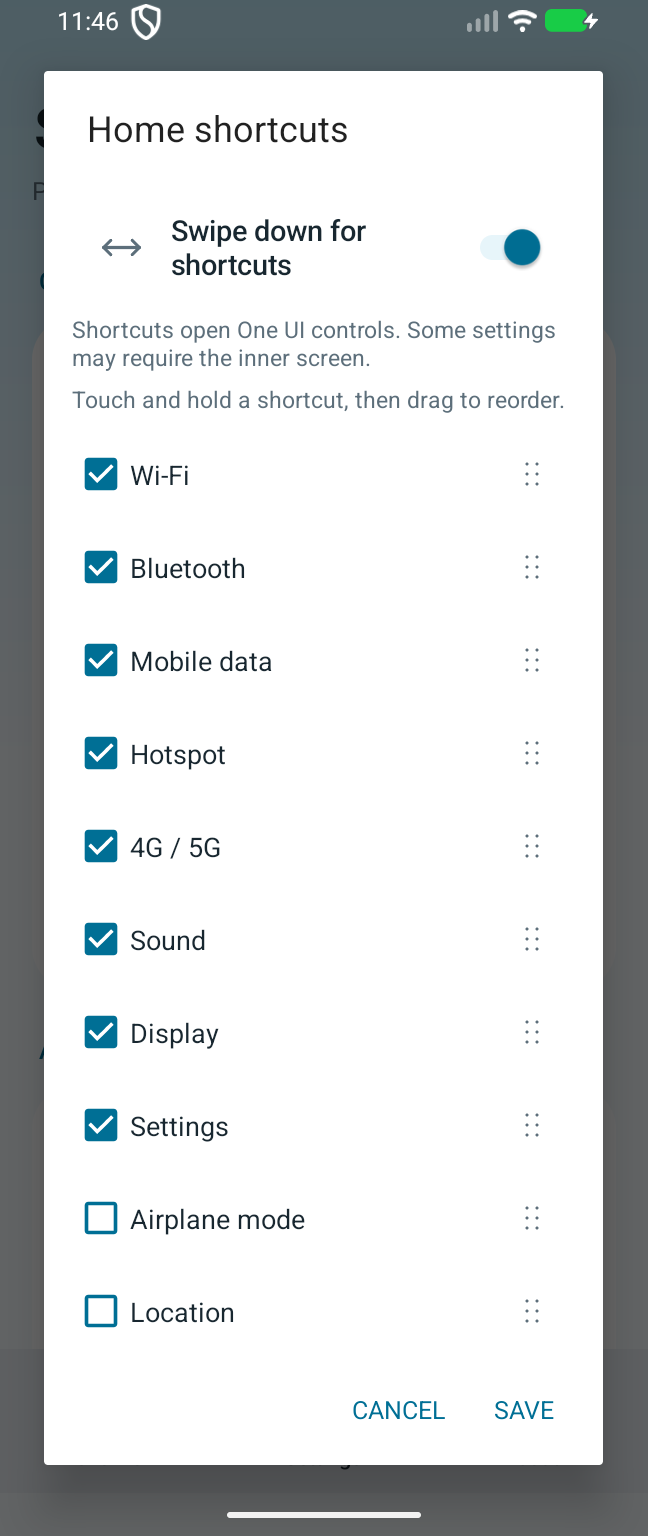
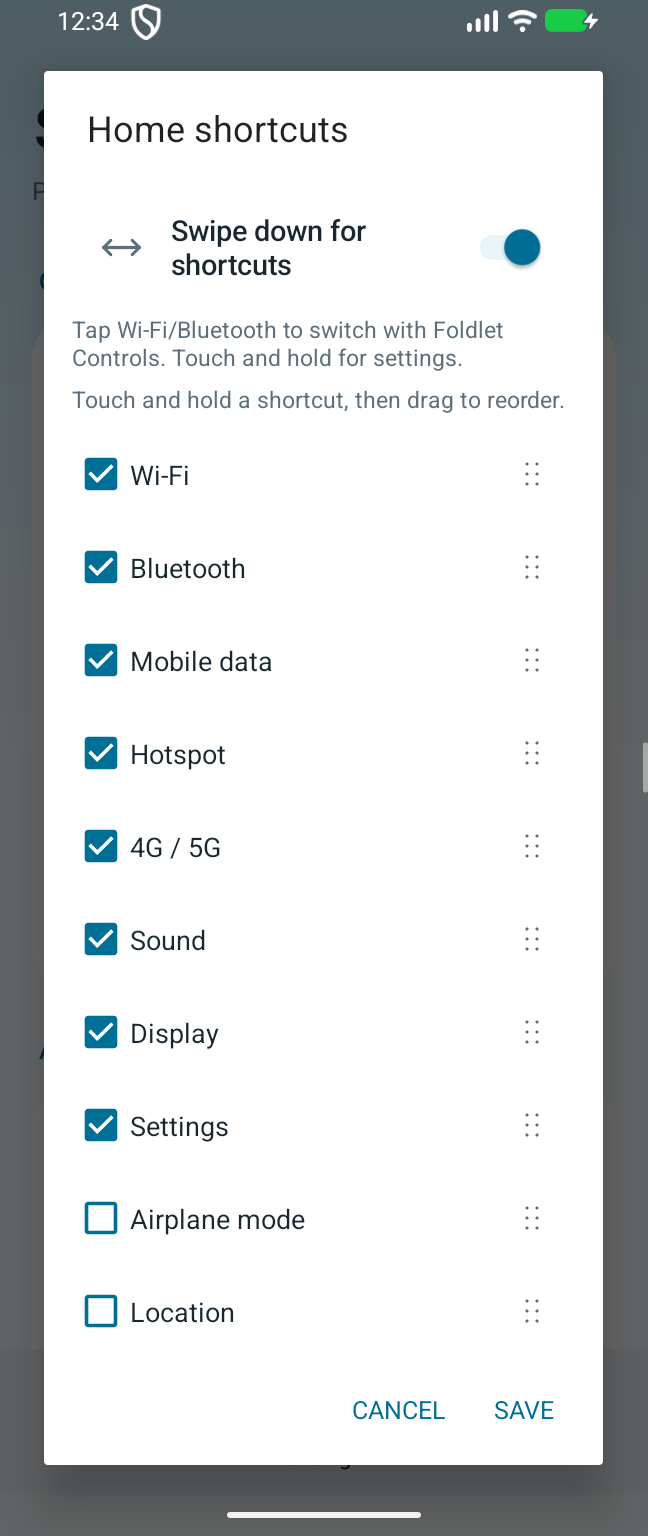
feat: one-tap radio controls with optional signed helper

diff --git a/app/src/main/java/vn/lit/screenos/QuickShortcutsView.kt b/app/src/main/java/vn/lit/screenos/QuickShortcutsView.kt
@@ -2,27 +2,116 @@ package vn.lit.screenos
 
 import android.content.Context
 import android.graphics.Color
-import android.graphics.Typeface
 import android.graphics.drawable.GradientDrawable
+import android.media.AudioManager
+import android.os.Handler
+import android.os.Looper
 import android.view.Gravity
+import android.view.MotionEvent
+import android.view.ViewConfiguration
 import android.widget.*
 
 class QuickShortcutsView(context: Context,private val displayId: Int,private val close: ()->Unit,private val launched: ()->Unit): LinearLayout(context) {
     private val body=FrameLayout(context)
+    private val radioTiles=mutableMapOf<String,android.view.View>()
+    private val handler=Handler(Looper.getMainLooper())
+    private var radioState=RadioControls.Result(false)
+    private var radioBusy=false
+    private var readingRadios=false
+    private val poll=Runnable { refreshRadios() }
+    private var downX=0f
+    private var downY=0f
+    private var dismissCandidate=false
+    private var dismissing=false
+    private val swipeThreshold=ViewConfiguration.get(context).scaledTouchSlop.coerceAtLeast(Ui.dp(context,24))
     init {
         orientation=VERTICAL;setBackgroundColor(Color.BLACK)
-        val header=LinearLayout(context).apply { gravity=Gravity.CENTER_VERTICAL }
-        header.addView(Glyph.button(context,Glyph.Kind.NAV_BACK,I18n.text(R.string.ui_return_to_samsung_home),action=close),LayoutParams(Ui.dp(context,40),-1))
-        header.addView(Ui.text(context,I18n.text(R.string.ui_shortcuts),19f).apply { setTypeface(null,Typeface.BOLD) },LayoutParams(0,-2,1f))
-        addView(header,LayoutParams(-1,Ui.dp(context,36)));addView(body,LayoutParams(-1,0,1f))
+        addView(body,LayoutParams(-1,-1))
         render()
+    }
+    override fun onAttachedToWindow() { super.onAttachedToWindow();refreshRadios() }
+    override fun onDetachedFromWindow() { handler.removeCallbacks(poll);super.onDetachedFromWindow() }
+    private fun refreshRadios() {
+        if(!isAttachedToWindow || readingRadios) return
+        readingRadios=true
+        RadioControls.request(context) { state ->
+            readingRadios=false
+            if(isAttachedToWindow) {
+                radioState=state;updateRadioTiles()
+                handler.removeCallbacks(poll);handler.postDelayed(poll,1000)
+            }
+        }
+    }
+    private fun updateRadioTiles() {
+        radioTiles.forEach { (kind,tile) ->
+            val state=if(kind=="wifi") radioState.wifi else radioState.bluetooth
+            ((tile.background as android.graphics.drawable.RippleDrawable).getDrawable(0) as GradientDrawable).setColor(if(state==1) 0xFF006F95.toInt() else 0xFF1C252E.toInt())
+            tile.alpha=if(state==2 || radioBusy) .55f else 1f
+            val label=I18n.text(if(kind=="wifi") R.string.ui_shortcut_wifi else R.string.ui_shortcut_bluetooth)
+            tile.contentDescription=if(state in 0..1) "$label, ${I18n.text(if(state==1) R.string.ui_on else R.string.ui_off)}" else label
+        }
+    }
+    private fun openDetails(action: QuickShortcuts.Action) {
+        if(QuickShortcuts.open(context,action,displayId)) launched() else openOnPhone(action)
+    }
+    private fun activate(action: QuickShortcuts.Action) {
+        if(!Platform.unlocked(context)) { render();return }
+        when(action.id) {
+            "wifi","bluetooth" -> {
+                if(radioBusy) return
+                radioBusy=true;updateRadioTiles()
+                RadioControls.request(context,action.id) { state ->
+                    radioBusy=false
+                    if(!isAttachedToWindow) return@request
+                    radioState=state;updateRadioTiles()
+                    if(!state.installed) Platform.message(context,I18n.text(R.string.ui_controls_install))
+                    else if(!state.accepted) Platform.message(context,I18n.text(R.string.ui_toggle_unavailable))
+                    handler.removeCallbacks(poll);handler.postDelayed(poll,300)
+                }
+            }
+            "sound" -> {
+                val audio=context.getSystemService(AudioManager::class.java)
+                try { audio.ringerMode=if(audio.ringerMode==AudioManager.RINGER_MODE_NORMAL) AudioManager.RINGER_MODE_VIBRATE else AudioManager.RINGER_MODE_NORMAL }
+                catch(_: SecurityException) { Platform.message(context,I18n.text(R.string.ui_toggle_unavailable)) }
+            }
+            "display","settings" -> openDetails(action)
+            else -> Platform.message(context,I18n.text(R.string.ui_toggle_restricted))
+        }
+    }
+    override fun dispatchTouchEvent(event: MotionEvent): Boolean {
+        when(event.actionMasked) {
+            MotionEvent.ACTION_DOWN -> {
+                downX=event.x;downY=event.y;dismissing=false
+                dismissCandidate=event.y>=height-Ui.dp(context,48)
+            }
+            MotionEvent.ACTION_POINTER_DOWN,MotionEvent.ACTION_CANCEL -> dismissCandidate=false
+        }
+        if(dismissCandidate && !dismissing && (event.actionMasked==MotionEvent.ACTION_MOVE || event.actionMasked==MotionEvent.ACTION_UP)) {
+            val dx=kotlin.math.abs(event.x-downX);val up=downY-event.y
+            if(up>swipeThreshold && up>dx*1.25f) {
+                dismissing=true
+                // Cancel a pressed tile before consuming the gesture, so release
+                // cannot launch its control or click through to Samsung home.
+                val cancel=MotionEvent.obtain(event).apply { action=MotionEvent.ACTION_CANCEL }
+                try { super.dispatchTouchEvent(cancel) } finally { cancel.recycle() }
+            } else if(dx>swipeThreshold || up < -swipeThreshold) dismissCandidate=false
+        }
+        if(dismissing) {
+            if(event.actionMasked==MotionEvent.ACTION_UP) {
+                val dismiss=dismissCandidate
+                dismissing=false;dismissCandidate=false
+                if(dismiss) close()
+            } else if(event.actionMasked==MotionEvent.ACTION_CANCEL) dismissing=false
+            return true
+        }
+        return super.dispatchTouchEvent(event)
     }
     override fun onSizeChanged(w: Int,h: Int,oldw: Int,oldh: Int) {
         super.onSizeChanged(w,h,oldw,oldh)
         if(w!=oldw) post { render() }
     }
     private fun render() {
-        body.removeAllViews()
+        body.removeAllViews();radioTiles.clear()
         if(!Platform.unlocked(context)) {
             body.addView(Ui.text(context,I18n.text(R.string.ui_unlock_to_continue),17f).apply { gravity=Gravity.CENTER },FrameLayout.LayoutParams(-1,-1));return
         }
@@ -32,29 +121,31 @@ class QuickShortcutsView(context: Context,private val displayId: Int,private val
         }
         val widthPx=width.takeIf { it>0 } ?: resources.displayMetrics.widthPixels
         val cell=widthPx/4
-        val grid=GridLayout(context).apply { columnCount=4;setPadding(Ui.dp(context,4),0,Ui.dp(context,4),Ui.dp(context,8)) }
+        val grid=GridLayout(context).apply { columnCount=4;setPadding(Ui.dp(context,4),Ui.dp(context,4),Ui.dp(context,4),Ui.dp(context,48)) }
         actions.forEachIndexed { index,action ->
             val tile=LinearLayout(context).apply {
                 orientation=VERTICAL;gravity=Gravity.CENTER;isClickable=true;isFocusable=true
                 tag="shortcut:${action.id}";contentDescription=I18n.text(action.title)
                 background=android.graphics.drawable.RippleDrawable(android.content.res.ColorStateList.valueOf(0x40FFFFFF),GradientDrawable().apply { setColor(0xFF1C252E.toInt());cornerRadius=Ui.dp(context,16).toFloat() },null)
-                setOnClickListener { if(QuickShortcuts.open(context,action,displayId)) launched() else openOnPhone(action) }
+                setOnClickListener { activate(action) }
+                setOnLongClickListener { openDetails(action);true }
             }
             tile.addView(ImageView(context).apply { setImageDrawable(Glyph(action.icon,false,Ui.dp(context,28)));scaleType=ImageView.ScaleType.CENTER_INSIDE },LayoutParams(Ui.dp(context,32),Ui.dp(context,32)))
             tile.addView(Ui.text(context,I18n.text(action.title),14f).apply { gravity=Gravity.CENTER;maxLines=2;ellipsize=android.text.TextUtils.TruncateAt.END },LayoutParams(-1,-2).apply { topMargin=Ui.dp(context,6) })
             grid.addView(tile,GridLayout.LayoutParams().apply { width=cell-Ui.dp(context,10);height=Ui.dp(context,88);columnSpec=GridLayout.spec(index%4);rowSpec=GridLayout.spec(index/4);setMargins(Ui.dp(context,4),Ui.dp(context,4),Ui.dp(context,4),Ui.dp(context,4)) })
+            if(action.id in setOf("wifi","bluetooth")) radioTiles[action.id]=tile
         }
         body.addView(Ui.scroll(context,grid),FrameLayout.LayoutParams(-1,-1))
+        updateRadioTiles()
     }
     private fun openOnPhone(action: QuickShortcuts.Action) {
         if(!Platform.unlocked(context)) { render();return }
-        body.removeAllViews()
+        body.removeAllViews();radioTiles.clear()
         val content=Ui.column(context,12)
         content.addView(Ui.text(context,I18n.text(R.string.ui_shortcut_phone_required),16f))
         content.addView(Ui.button(context,I18n.text(R.string.ui_open_on_phone)) {
             if(QuickShortcuts.open(context,action,0)) launched()
         })
-        content.addView(Ui.button(context,I18n.text(R.string.ui_back)) { render() })
         body.addView(content,FrameLayout.LayoutParams(-1,-1))
     }
 }

diff --git a/controls/src/main/java/vn/lit/screenos/controls/RadioService.kt b/controls/src/main/java/vn/lit/screenos/controls/RadioService.kt
@@ -1,0 +1,59 @@
+package vn.lit.screenos.controls
+
+import android.app.KeyguardManager
+import android.app.Service
+import android.bluetooth.BluetoothAdapter
+import android.bluetooth.BluetoothManager
+import android.content.Intent
+import android.content.pm.PackageManager
+import android.net.wifi.WifiManager
+import android.os.*
+
+/** Signature-only, bound helper. No network, location, scanning, or device lists. */
+@Suppress("DEPRECATION")
+class RadioService: Service() {
+    private val messenger=Messenger(object: Handler(Looper.getMainLooper()) {
+        override fun handleMessage(message: Message) {
+            val packages=packageManager.getPackagesForUid(message.sendingUid).orEmpty()
+            if("vn.lit.screenos" !in packages || packageManager.checkSignatures(message.sendingUid,applicationInfo.uid)!=PackageManager.SIGNATURE_MATCH) return
+            if(message.what !in 1..2) return
+            val wifi=applicationContext.getSystemService(WifiManager::class.java)
+            val bluetooth=getSystemService(BluetoothManager::class.java)?.adapter
+            var accepted=false
+            if(message.what==2 && !getSystemService(KeyguardManager::class.java).isKeyguardLocked) {
+                try {
+                    accepted=when(message.data.getString("kind")) {
+                        "wifi" -> when(wifi?.wifiState) {
+                            WifiManager.WIFI_STATE_ENABLED -> wifi.setWifiEnabled(false)
+                            WifiManager.WIFI_STATE_DISABLED -> wifi.setWifiEnabled(true)
+                            else -> false
+                        }
+                        "bluetooth" -> when(bluetooth?.state) {
+                            BluetoothAdapter.STATE_ON -> bluetooth.disable()
+                            BluetoothAdapter.STATE_OFF -> bluetooth.enable()
+                            else -> false
+                        }
+                        else -> false
+                    }
+                } catch(_: SecurityException) { /* Firmware can reject a legacy toggle. */ }
+            }
+            val state=Bundle().apply {
+                putBoolean("accepted",accepted)
+                putInt("wifi",try { when(wifi?.wifiState) {
+                    WifiManager.WIFI_STATE_ENABLED -> 1
+                    WifiManager.WIFI_STATE_DISABLED -> 0
+                    WifiManager.WIFI_STATE_ENABLING,WifiManager.WIFI_STATE_DISABLING -> 2
+                    else -> -1
+                } } catch(_: SecurityException) { -1 })
+                putInt("bluetooth",try { when(bluetooth?.state) {
+                    BluetoothAdapter.STATE_ON -> 1
+                    BluetoothAdapter.STATE_OFF -> 0
+                    BluetoothAdapter.STATE_TURNING_ON,BluetoothAdapter.STATE_TURNING_OFF -> 2
+                    else -> -1
+                } } catch(_: SecurityException) { -1 })
+            }
+            try { message.replyTo?.send(Message.obtain(null,message.what).apply { data=state }) } catch(_: RemoteException) { }
+        }
+    })
+    override fun onBind(intent: Intent)=messenger.binder
+}

diff --git a/app/src/main/java/vn/lit/screenos/RadioControls.kt b/app/src/main/java/vn/lit/screenos/RadioControls.kt
@@ -1,0 +1,49 @@
+package vn.lit.screenos
+
+import android.content.*
+import android.content.pm.PackageManager
+import android.os.*
+
+/** Each short-lived request is bound to the helper signed with our certificate. */
+object RadioControls {
+    private const val helper="vn.lit.screenos.controls"
+    data class Result(val installed: Boolean,val accepted: Boolean=false,val wifi: Int=-1,val bluetooth: Int=-1)
+    fun request(context: Context,kind: String?=null,complete: (Result)->Unit) {
+        val app=context.applicationContext
+        if(app.packageManager.checkSignatures(app.packageName,helper)!=PackageManager.SIGNATURE_MATCH) { complete(Result(false));return }
+        val handler=Handler(Looper.getMainLooper())
+        var finished=false;var bound=false
+        lateinit var connection: ServiceConnection
+        lateinit var timeout: Runnable
+        fun finish(result: Result) {
+            if(finished) return
+            finished=true;handler.removeCallbacks(timeout)
+            if(bound) runCatching { app.unbindService(connection) }
+            complete(result)
+        }
+        timeout=Runnable { finish(Result(true)) }
+        val reply=Messenger(object: Handler(Looper.getMainLooper()) {
+            override fun handleMessage(message: Message) {
+                val data=message.data
+                finish(Result(true,data.getBoolean("accepted"),data.getInt("wifi",-1),data.getInt("bluetooth",-1)))
+            }
+        })
+        connection=object: ServiceConnection {
+            override fun onServiceConnected(name: ComponentName,binder: IBinder) {
+                if(finished) return
+                try {
+                    Messenger(binder).send(Message.obtain(null,if(kind==null) 1 else 2).apply {
+                        replyTo=reply;data=Bundle().apply { putString("kind",kind) }
+                    })
+                } catch(_: RemoteException) { finish(Result(true)) }
+            }
+            override fun onServiceDisconnected(name: ComponentName) { finish(Result(true)) }
+            override fun onNullBinding(name: ComponentName) { finish(Result(true)) }
+            override fun onBindingDied(name: ComponentName) { finish(Result(true)) }
+        }
+        try {
+            bound=app.bindService(Intent().setComponent(ComponentName(helper,"$helper.RadioService")),connection,Context.BIND_AUTO_CREATE)
+            if(bound) handler.postDelayed(timeout,4000) else finish(Result(true))
+        } catch(_: RuntimeException) { finish(Result(true)) }
+    }
+}

diff --git a/app/src/androidTest/java/vn/lit/screenos/OverlaySmokeTest.kt b/app/src/androidTest/java/vn/lit/screenos/OverlaySmokeTest.kt
@@ -44,8 +44,8 @@ class OverlaySmokeTest(private val runner: Instrumentation) {
             await("close home navigation") { CoverMonitorService.current?.overlay?.mode==CoverOverlay.Mode.HOME_EDGE }
             swipe(256f,30f,256f,100f)
             await("top swipe opens shortcuts") { CoverMonitorService.current?.overlay?.mode==CoverOverlay.Mode.SHORTCUTS }
-            tap(20f,18f)
-            await("shortcuts back returns home") { CoverMonitorService.current?.overlay?.mode==CoverOverlay.Mode.HOME_EDGE }
+            swipe(256f,226f,256f,150f)
+            await("shortcuts bottom swipe returns home") { CoverMonitorService.current?.overlay?.mode==CoverOverlay.Mode.HOME_EDGE }
 
             swipe(480f, 220f, 480f, 80f)
             waitForIdleSync(); SystemClock.sleep(300)

diff --git a/README.md b/README.md
@@ -4,7 +4,9 @@
 
 Open apps on your **Galaxy Z Flip3 cover screen**. Foldlet adds an app drawer, search, favorites, and navigation alongside Samsung’s native clock and widgets.
 
-**[Download APK 0.7.0](https://github.com/luongwnv/Foldlet/releases/download/v0.7.0/Foldlet-0.7.0.apk)** · **0.7.0 beta** · Tested on **SM-F711B, Android 14 / One UI 6.1.1**.
+**[Download APK 0.8.0](https://github.com/luongwnv/Foldlet/releases/download/v0.8.0/Foldlet-0.8.0.apk)** · **0.8.0 beta** · Tested on **SM-F711B, Android 14 / One UI 6.1.1**.
+
+[Foldlet Controls 1.0.0 (Optional)](https://github.com/luongwnv/Foldlet/releases/download/v0.8.0/Foldlet-Controls-1.0.0.apk) enables one-tap Wi-Fi and Bluetooth without a computer.
 
 ## Screenshots
 
@@ -28,6 +30,7 @@ Actual captures of the native Android interface running on a dedicated test emul
 - A toolbar with adjustable size, top/left/right/bottom placement, and a hide option. It also hides when scrolling down.
 - A configurable tap area on the **Samsung clock page** opens the drawer; swiping from the right edge opens navigation.
 - Swipe down from the clock’s top edge for customizable One UI shortcuts, including Wi-Fi, Bluetooth, mobile data, hotspot, and 4G/5G settings. Widget pages keep Samsung controls.
+- Tap Wi-Fi or Bluetooth to switch it with the optional Foldlet Controls helper; touch and hold to open system settings.
 - Back, app drawer, Recent apps, and Samsung Home navigation while using an app on the cover screen.
 - Recent apps from across your phone, including apps opened on the inner screen.
 - English and Vietnamese following your system language; other languages fall back to English.
@@ -36,12 +39,14 @@ Actual captures of the native Android interface running on a dedicated test emul
 
 ## Getting started
 
-1. Download **Foldlet-0.7.0.apk** from [Releases](https://github.com/luongwnv/Foldlet/releases), open it on your phone, and allow installation from that source when Android asks.
+1. Download **Foldlet-0.8.0.apk** from [Releases](https://github.com/luongwnv/Foldlet/releases), open it on your phone, and allow installation from that source when Android asks.
 2. Open **Foldlet** on the inner screen. In **Overview**, grant **Display over other apps** and enable the **Foldlet** service in Android’s **Accessibility** settings.
 3. Grant **Usage access** to use Recent apps. Allow notifications if you want the service notification and its **Stop** button.
 4. Turn on the Foldlet service, fold your phone, and wake the cover screen.
 
 To update, install the new APK over your existing version and open Foldlet once. Versions signed with the same certificate can update without uninstalling the app.
+
+For one-tap Wi-Fi and Bluetooth, install **Foldlet-Controls-1.0.0.apk** from the same release. It runs only when Foldlet requests a control, has no separate launcher screen, and needs no ADB connection after installation. Without Controls, touch and hold a tile to use One UI settings.
 
 ## Using Foldlet
 
@@ -80,6 +85,8 @@ Tap **×** at the top-right of a card to close that card, or **Close all** to cl
 
 <p align="center"><img src="docs/images/shortcuts.png" width="512" alt="Foldlet system shortcuts"></p>
 
+Swipe down from the Samsung clock’s top edge to open the controls. Swipe up from the panel’s bottom edge to close it and return to Samsung Home.
+
 In **Settings > Home touch area**, choose the rectangle’s width, height, horizontal position, and vertical position using the preview. You can disable tap-to-open or hide its small indicator. Swiping from the right edge still opens navigation.
 
 <p align="center">
@@ -87,7 +94,9 @@ In **Settings > Home touch area**, choose the rectangle’s width, height, horiz
   <img src="docs/images/home-shortcuts-settings.png" width="260" alt="Choose and arrange home shortcuts">
 </p>
 
-In **Settings > Home shortcuts**, enable or disable the top-edge swipe, select available system shortcuts, then touch and hold a shortcut and drag it to reorder. Shortcuts open One UI’s own controls. If the OS cannot show a control on the cover screen, Foldlet offers **Open on phone**.
+In **Settings > Home shortcuts**, enable or disable the top-edge swipe, select available system shortcuts, then touch and hold a shortcut and drag it to reorder.
+
+On the cover panel, **tap Wi-Fi or Bluetooth to switch it** using Foldlet Controls. Blue indicates on; a dimmed tile indicates a change in progress. **Touch and hold** any tile for system settings. Sound switches between ringing and vibration; Display and Settings open their controls. One UI restricts direct switching for mobile data, hotspot, 4G/5G, airplane mode, and location: touch and hold those tiles to change them in system settings. If the OS cannot show a control on the cover screen, Foldlet offers **Open on phone**.
 
 ### Customization
 
@@ -122,6 +131,8 @@ Permission shortcuts are available in **Overview**. You can revoke permissions i
 </table>
 
 Recent-app data is read on your device, is not sent to a server, and is not saved as a separate usage history. Foldlet keeps dismissal timestamps so closed cards stay hidden until their apps are used again. Input to other apps is write-only: existing field contents are not read or recorded. Swipe traces and suggestions stay in memory and are discarded when the keyboard closes. Foldlet does not save screen captures. Its network connection is used only for the ADB rotation bridge on localhost.
+
+**Foldlet Controls (Optional)** uses Wi-Fi state/change and legacy Bluetooth permissions solely to read on/off state and switch those two radios. It does not scan networks or devices, read their names, access location, or connect to the internet. Only Foldlet signed with the matching certificate can call its service. The helper uses Android’s older compatibility APIs; Foldlet itself continues to target modern Android.
 
 ## Optional USB rotation
 

diff --git a/docs/DEVELOPMENT.md b/docs/DEVELOPMENT.md
@@ -8,6 +8,7 @@ Requires JDK 17+, Android SDK 36, and ADB.
 
 ```sh
 ./gradlew :app:assembleDebug :app:assembleRelease :app:lintRelease
+./gradlew :controls:assembleRelease
 adb -s DEVICE_SERIAL install -r app/build/outputs/apk/release/app-release.apk
 ```
 
@@ -21,6 +22,7 @@ Beta release builds are not debuggable. They use the existing local development 
 | `CoverOverlay` | Drawer, edge handles, navigation, shortcuts, and keyboard windows |
 | `HomeGestureOverlay` / `HomeTouchConfig` | Bounded clock-only tap region and top swipe target |
 | `QuickShortcuts` | Exported system control entry points available on the device |
+| `RadioControls` / `controls:RadioService` | Signature-protected bound helper for legacy Wi-Fi/Bluetooth toggles |
 | `AppDrawerView` | Apps, filtering, configurable toolbar, and search |
 | `CoverKeyboardView` / `SwipeDecoder` | Shared keyboard and local swipe recognition |
 | `NavigationService` | Accessibility navigation and write-only input connection |
@@ -52,4 +54,4 @@ python3 scripts/emulator_locale_smoke.py
 
 Temporary captures and logs belong in ignored `artifacts/`. Public screenshots in `docs/images/` show native UI without personal phone data. Reference APKs, extracted resources, keystores, and build outputs are excluded from Git.
 
-System shortcuts use exported OS panels. Direct Wi-Fi and Bluetooth switching is restricted for regular apps: see [WifiManager](https://developer.android.com/reference/android/net/wifi/WifiManager#setWifiEnabled(boolean)) and [Android 13 Bluetooth changes](https://developer.android.com/about/versions/13/behavior-changes-13#bluetooth-adapter).
+Long-press shortcuts use exported OS panels. The optional `controls` APK targets API 28 to use the documented legacy Wi-Fi/Bluetooth toggle compatibility, while the main app targets API 35: see [WifiManager](https://developer.android.com/reference/android/net/wifi/WifiManager#setWifiEnabled(boolean)) and [Android 13 Bluetooth changes](https://developer.android.com/about/versions/13/behavior-changes-13#bluetooth-adapter). It has no network access and does not scan networks or devices, and binds only through a signature permission. Both APKs must use the same signing certificate. The helper also validates the Messenger sender UID/package/certificate and refuses toggles while locked. It accepts only state reads and Wi-Fi/Bluetooth toggles; hotspot/mobile data/network mode have no privileged helper backend.

diff --git a/docs/releases/v0.8.0.md b/docs/releases/v0.8.0.md
@@ -1,0 +1,10 @@
+Foldlet 0.8.0 adds one-tap Wi-Fi and Bluetooth with the optional Foldlet Controls helper.
+
+- Tap Wi-Fi or Bluetooth to switch it. Tiles show their actual on/off or changing state. Install both APKs below to use this without a computer, root, or Shizuku.
+- Touch and hold a tile to open its system settings. Sound switches between ringing and vibration. One UI still restricts direct mobile data, hotspot, network mode, airplane mode, and location switching; use their long-press settings.
+- Removed the Shortcuts title and Back button. Swipe up from the bottom edge to close the panel and return to Samsung Home.
+- Shortcut selection and drag-to-reorder remain in Settings.
+
+Install **Foldlet-0.8.0.apk** over your compatible existing version, plus **Foldlet-Controls-1.0.0.apk**, then open Foldlet once. Controls has no separate launcher and only accepts calls from the matching Foldlet certificate. It uses legacy compatibility APIs for Wi-Fi/Bluetooth, without scanning networks/devices or accessing the internet.
+
+Both APKs are signed, non-debuggable beta builds. SHA-256 files are attached.
